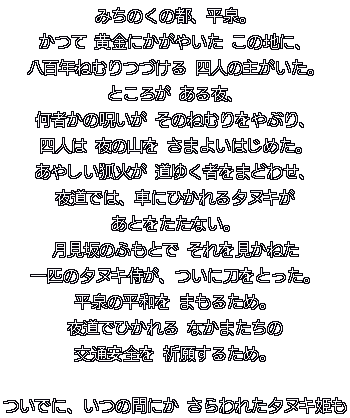
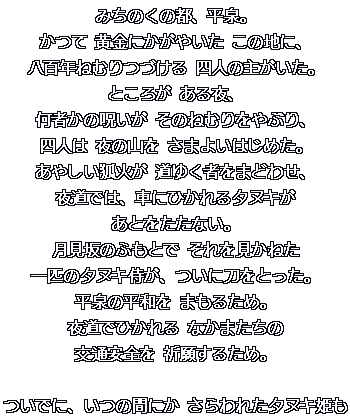
始まりの語りの文字を、横に1ドット太らせて読みやすくする

diff --git a/tools/make_story_text.py b/tools/make_story_text.py
@@ -2,7 +2,7 @@
 
 使い方: python tools/make_story_text.py フォント.ttf assets/story_intro.txt 出力.png [行の間=26]
   - 文章は、テキストファイルに書く（1行が、画面の1行。空の行は、段落の間）
-  - 各行を、左右の中央にそろえる。白い字に、暗い縁取り。アンチエイリアスなし
+  - 各行を、左右の中央にそろえる。白い字（横に1ドット太らせる）に、暗い縁取り。アンチエイリアスなし
 使っているフォント: DotGothic16（SIL Open Font License 1.1）https://github.com/fontworks-fonts/DotGothic16
 """
 import sys
@@ -23,7 +23,9 @@ def main(font_path, text_path, out, pitch=26):
     d = ImageDraw.Draw(mask)
     d.fontmode = "1"
     for i, ln in enumerate(lines):
-        d.text(((width - int(font.getlength(ln))) // 2, i * pitch + 2), ln, font=font, fill=255)
+        x = (width - int(font.getlength(ln))) // 2
+        d.text((x, i * pitch + 2), ln, font=font, fill=255)
+        d.text((x + 1, i * pitch + 2), ln, font=font, fill=255)    # 1ドット右にも描いて、線を太くする（1ドットの線は、細くて読みにくい）
     mask = mask.point(lambda v: 255 if v >= 128 else 0)
     img = Image.new("RGBA", (width + 2, mask.height + 2), (0, 0, 0, 0))
     for dy in (0, 1, 2):
